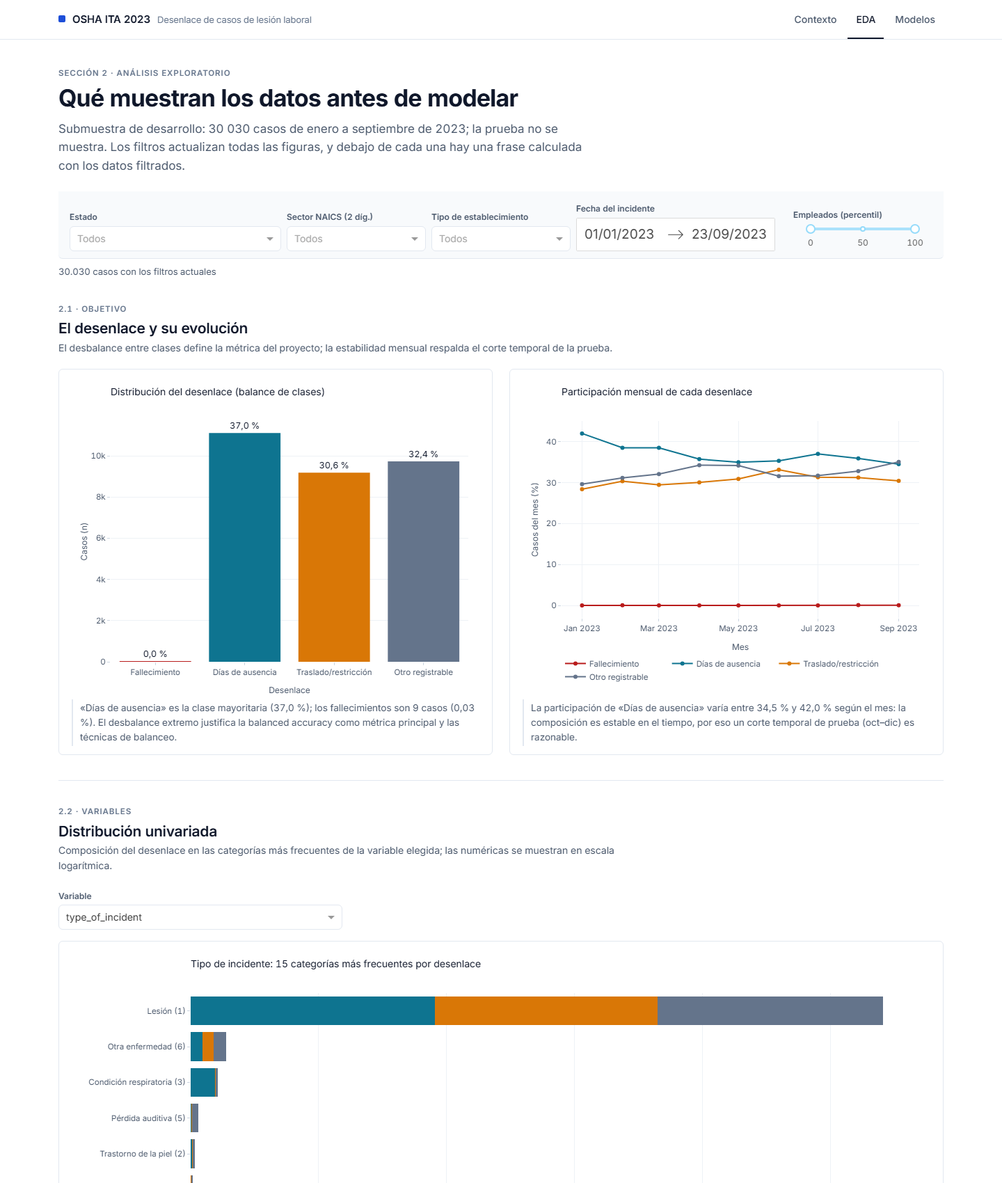
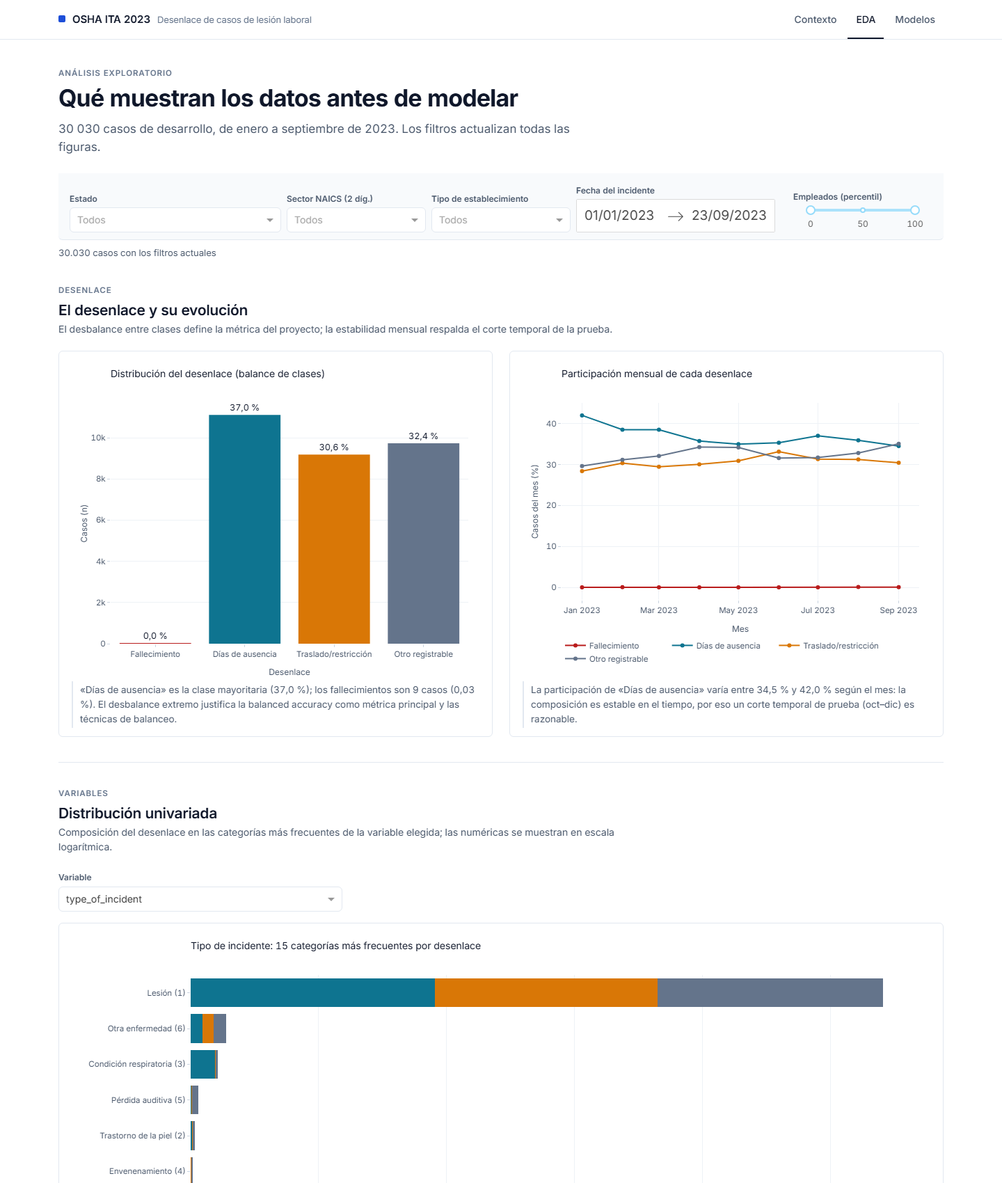
Dashboard: Modelos más corta y centrada en los hallazgos (sin R1-R3, detalle en secciones plegables) y textos menos formales

diff --git a/dashboard_final/assets/style.css b/dashboard_final/assets/style.css
@@ -159,3 +159,11 @@ pre.pseudo { font-family: var(--mono); font-size: 12px; background: var(--bg-sof
 html, body { max-width: 100%; overflow-x: hidden; }
 .dash-table-container, .js-plotly-plot, .panel { max-width: 100%; min-width: 0; }
 .row > * { min-width: 0; }
+
+/* ---------- detalle plegable ---------- */
+details.more { border: 1px solid var(--line); border-radius: var(--radius); padding: 10px 14px; }
+details.more > summary { cursor: pointer; font-size: 14px; font-weight: 500; color: var(--ink-2); list-style: none; }
+details.more > summary::-webkit-details-marker { display: none; }
+details.more > summary::before { content: '+'; display: inline-block; width: 18px; color: var(--ink-3); font-family: var(--mono); }
+details.more[open] > summary::before { content: '−'; }
+details.more > summary:hover { color: var(--ink); }

diff --git a/dashboard_final/pages/modelos.py b/dashboard_final/pages/modelos.py
@@ -209,70 +209,62 @@ def stat(value, label, accent=False):
                     className='stat accent' if accent else 'stat')
 
 
-def verdict_strip():
-    req = [('R1 · Novedad', 'Sí', 'ok', 'Revisión en 3 bases con 8 cadenas; no se halló SECR aplicado a este problema '
-            '(cap. 16.6–16.9).'),
-           ('R2 · Implementación propia', 'Sí', 'ok', 'Clase compatible con scikit-learn, Frank-Wolfe en numpy, '
-            '6 proposiciones y 8 pruebas unitarias (cap. 19).'),
-           ('R3 · Superioridad', 'No', 'bad', 'Mayor BA media, pero ninguna prueba pareada contra KNN rechaza la '
-            'igualdad tras Holm (cap. 20).')]
-    return html.Div([html.Div([html.Div(k, className='k'), html.Div(html.Span(s, className=f'pill {c}'), className='s'),
-                               html.Div(d, className='d')], className='req') for k, s, c, d in req], className='verdict')
+def more(summary, *children):
+    """Detalle plegable: lo esencial queda a la vista y el resto a un clic."""
+    return html.Details([html.Summary(summary), html.Div(children, className='pt-3')], className='more mt-3')
 
 
 subnav = html.Nav([html.A(t, href=f'#{i}') for i, t in [
-    ('benchmarks', 'Benchmarks'), ('prediccion', 'Predicción'), ('diagnostico', 'Diagnóstico'), ('original', 'Modelo original'),
-    ('candidatos', 'Candidatos'), ('comparacion', 'Comparación pareada'), ('ablacion', 'Ablación'), ('veredicto', 'Veredicto')]],
+    ('benchmarks', 'Benchmarks'), ('prediccion', 'Predicción'), ('diagnostico', 'Diagnóstico'),
+    ('original', 'Modelo original'), ('comparacion', 'Comparación'), ('ablacion', 'Ablación')]],
     className='subnav', **{'aria-label': 'Secciones de la página'})
 
 # --------------------------------------------------------------------------------------------- layout
 layout = html.Div([
     html.Div([
-        html.Div('Sección 3 · Modelos', className='eyebrow'),
-        html.H1('Siete benchmarks del curso y un modelo original', className='page-title'),
-        html.P('El original (ensamble multivista + SECR) obtiene la mayor balanced accuracy media cuando se compara con los '
-               '7 benchmarks con las mismas variables y los mismos pliegues, pero su ventaja sobre KNN no es '
-               'estadísticamente significativa.', className='page-lead'),
-        html.Div([stat(num(BA.get('Original (SECR)', np.nan)), 'BA media del original (15 pliegues pareados)', accent=True),
+        html.Div('Modelos', className='eyebrow'),
+        html.H1('El modelo original gana en media, pero no por un margen claro', className='page-title'),
+        html.P('Con las mismas variables y los mismos 15 pliegues, el ensamble multivista con SECR obtiene la mayor balanced '
+               'accuracy de los 8 modelos. Su ventaja sobre KNN, el mejor benchmark, es pequeña frente a la variación entre '
+               'pliegues y ninguna prueba pareada la confirma.', className='page-lead'),
+        html.Div([stat(num(BA.get('Original (SECR)', np.nan)), 'BA media del original (15 pliegues)', accent=True),
                   stat(num(BA.get('KNN', np.nan)), 'BA media de KNN, el mejor benchmark'),
-                  stat(num(DELTA, sign=True), 'diferencia; IC BCa 95 % [−0,032; 0,056] incluye el 0'),
-                  stat(FRIEDMAN_P.replace('.', ','), 'p de Friedman (global): los 8 modelos no son iguales')],
+                  stat(num(DELTA, sign=True), 'diferencia; IC BCa 95 % [−0,032; 0,056]'),
+                  stat(num(ABL['SECR sin corrección por prior (α = 0)']['ba_mean']) if ABL else '—',
+                       'BA del original sin la corrección por prior: el componente que más aporta')],
                  className='stats'),
-        html.Div(verdict_strip(), className='mt-3'),
     ], className='page-head'),
     subnav,
 
-    section('benchmarks', '3.1 · Benchmarks', 'Tabla de líderes del Entregable 2',
-            'Mejores combinaciones del Entregable 2 (9 variables): una fila por modelo, la combinación de balanceo y '
-            'optimizador con mayor BA media en los 5 pliegues externos de la validación anidada. La comparación con el '
-            'modelo original usa estos mismos 7 modelos reentrenados con las variables ampliadas (sección 3.6).',
+    section('benchmarks', 'Benchmarks', 'Mejores combinaciones del Entregable 2',
+            'Una fila por modelo: la combinación de balanceo y optimizador con mayor BA media en los 5 pliegues externos, '
+            'con las 9 variables del lugar de trabajo. Estos mismos 7 modelos se reentrenan con las variables ampliadas '
+            'para compararlos con el original.',
             dbc.Switch(id='show-all', label='Mostrar las 112 combinaciones', value=False, className='mb-2'),
             leaderboard),
 
-    section('prediccion', '3.2 · Predicción', 'Predicción en vivo con explicación',
-            'Describa un caso y elija el modelo. Los benchmarks usan las 9 variables del lugar de trabajo; el original usa '
-            'además los códigos de la lesión y el empleador. NAICS de 3 dígitos, ocupación SOC menor y horas desde el '
-            'inicio de la jornada se derivan automáticamente. El modelo elegido también controla el diagnóstico (3.3).',
+    section('prediccion', 'Predicción', 'Un caso, paso a paso',
+            'Los benchmarks usan las 9 variables del lugar de trabajo; el original añade la lesión y el empleador. El '
+            'modelo elegido aquí es también el del diagnóstico.',
             dbc.Row([dbc.Col([dbc.Label('Modelo', html_for='model-sel'),
                               dcc.Dropdown([{'label': model_label(m), 'value': m} for m in MODELS],
                                            'original' if 'original' in MODELS else MODELS[0], id='model-sel',
                                            clearable=False)], xs=12, md=5),
                      dbc.Col(html.Div(id='model-info', className='note pt-md-4'), xs=12, md=7)], className='mb-3'),
             html.Div([form,
-                      dbc.Button('Predecir y explicar', id='btn-pred', color='primary', className='mt-2')],
+                      dbc.Button('Predecir', id='btn-pred', color='primary', className='mt-2')],
                      className='panel panel-soft'),
             html.Div(id='pred-alert', className='mt-3'),
             dbc.Row([dbc.Col(html.Div(dcc.Loading(dcc.Graph(id='g-proba', config={'displaylogo': False},
-                                                            figure=plots.empty('Pulse «Predecir y explicar».')),
+                                                            figure=plots.empty('Pulse «Predecir».')),
                                                   type='dot', color='#94a3b8'), className='panel'), lg=5),
                      dbc.Col(html.Div(dcc.Loading(dcc.Graph(id='g-shap', config={'displaylogo': False},
-                                                            figure=plots.empty('Aquí aparecerá la explicación SHAP local.')),
+                                                            figure=plots.empty('Aquí aparecerá el aporte de cada variable.')),
                                                   type='dot', color='#94a3b8'), className='panel'), lg=7)],
                     className='grid-gap mt-1')),
 
-    section('diagnostico', '3.3 · Diagnóstico', 'Cómo se equivoca el modelo seleccionado',
-            'Calculado con las predicciones fuera de pliegue externo (30 030 casos); la prueba de octubre a diciembre no se '
-            'usa.',
+    section('diagnostico', 'Diagnóstico', 'Dónde acierta y dónde se equivoca',
+            'Predicciones fuera de pliegue externo de los 30 030 casos de desarrollo.',
             html.P(id='i-diag', className='finding mb-3'),
             dbc.Row([dbc.Col(html.Div(dcc.Graph(id='g-cm'), className='panel'), lg=6),
                      dbc.Col(html.Div(dcc.Graph(id='g-cal'), className='panel'), lg=6),
@@ -281,34 +273,31 @@ layout = html.Div([
                      dbc.Col(html.Div([dcc.Graph(id='g-shapglob'), html.P(id='i-shapglob', className='finding')],
                                       className='panel'), lg=12)], className='grid-gap')),
 
-    section('original', '3.4 · Modelo original', 'Ensamble multivista + SECR',
-            '16 modelos base, cada uno especializado en una vista de los datos (lugar de trabajo, lesión OIICS, códigos '
-            'finos con codificación por objetivo, empleador), se combinan con SECR: selección de ensambles condicionada '
-            'por región con contracción. Los pesos de cada región minimizan la log-loss fuera de pliegue sobre el símplex '
-            'con Frank-Wolfe y se contraen hacia los pesos globales con λ pseudo-observaciones. La compuerta, λ, los pasos, '
-            'el tamaño mínimo de región y el α de la decisión se eligen con TPE dentro de cada pliegue externo, con el '
-            'mismo presupuesto (16) que los benchmarks.',
-            dbc.Row([dbc.Col([html.Div('Pseudocódigo', className='block-title mb-2'), html.Pre(PSEUDO, className='pseudo')],
-                             lg=6),
-                     dbc.Col([html.Div('Diferencias frente a la literatura', className='block-title mb-2'),
-                              simple_table(['Método afín', 'Qué cambia SECR'],
-                                           [html.Tr([html.Td(a), html.Td(b)]) for a, b in DIFFS])], lg=6)],
-                    className='grid-gap'),
-            html.Div(dcc.Graph(id='g-conv', config={'displaylogo': False}), className='panel mt-3'),
-            html.P('La log-loss no sube nunca (proposición 2) y la brecha de Frank-Wolfe, que acota la distancia al óptimo '
-                   '(proposición 3), cae varios órdenes de magnitud.', className='finding')),
+    section('original', 'Modelo original', 'Ensamble multivista + SECR',
+            '16 modelos base, cada uno especializado en una vista del caso (lugar de trabajo, lesión, códigos finos, '
+            'empleador), se combinan con pesos aprendidos por región del espacio de entrada y contraídos hacia unos pesos '
+            'globales cuando la región tiene pocos datos. Los pesos se optimizan con Frank-Wolfe, que garantiza que la '
+            'pérdida no sube y certifica qué tan cerca está del óptimo. La decisión final divide cada probabilidad por la '
+            'frecuencia de su clase.',
+            more('Algoritmo, diferencias con la literatura y convergencia',
+                 dbc.Row([dbc.Col([html.Div('Pseudocódigo', className='block-title mb-2'),
+                                   html.Pre(PSEUDO, className='pseudo')], lg=6),
+                          dbc.Col([html.Div('Diferencias con métodos afines', className='block-title mb-2'),
+                                   simple_table(['Método afín', 'Qué cambia SECR'],
+                                                [html.Tr([html.Td(a), html.Td(b)]) for a, b in DIFFS])], lg=6)],
+                         className='grid-gap'),
+                 html.Div(dcc.Graph(id='g-conv', config={'displaylogo': False}), className='panel mt-3'),
+                 html.P('La log-loss no sube nunca y la brecha de Frank-Wolfe, que acota la distancia al óptimo, cae varios '
+                        'órdenes de magnitud.', className='finding')),
+            more('Los 13 diseños probados antes de llegar a SECR',
+                 html.P('Elegir el mejor de varios intentos sobrestima su ventaja, así que se listan todos con los datos que '
+                        'se miraron para elegirlos. Las cifras de bloques distintos no son comparables entre sí.',
+                        className='note'),
+                 candidates_table())),
 
-    section('candidatos', '3.5 · Candidatos', 'Trece diseños probados antes del modelo final',
-            'La guía (§13) pide declarar todos los diseños probados y qué datos se miraron para elegir, porque elegir el '
-            'mejor de varios candidatos sobrestima su ventaja. Las cifras de bloques distintos no se comparan entre sí.',
-            candidates_table(),
-            html.P('El diseño de SECR (regla, hiperparámetros y rangos) se fijó antes de correr el experimento pareado, y '
-                   'sus hiperparámetros los eligió TPE con predicciones internas de cada pliegue externo (cap. 19.9).',
-                   className='finding mt-3')),
-
-    section('comparacion', '3.6 · Comparación pareada', 'Mismas variables, mismas particiones, 3 × 5 pliegues',
-            'Los 7 benchmarks se reentrenan con las mismas columnas que el original y se evalúan en los mismos 15 pliegues '
-            'externos, con el mismo presupuesto de búsqueda.',
+    section('comparacion', 'Comparación pareada', 'Mismas variables, mismos 15 pliegues',
+            'Los 7 benchmarks se reentrenan con las mismas columnas que el original y se evalúan en los mismos 3 × 5 '
+            'pliegues externos, con el mismo presupuesto de búsqueda.',
             paired_table(),
             dbc.Row([dbc.Col(html.Div([dcc.Graph(id='g-cd', figure=(plots.cd_diagram(
                 RES['cd']['names'], np.array(RES['cd']['ranks']), RES['cd']['cd'], highlight='Original (SECR)')
@@ -318,47 +307,28 @@ layout = html.Div([
                                                  else plots.empty()),
                                        html.P((f'La ventaja media sobre KNN es {num(BYREP[0], sign=True)} en la repetición 0 '
                                                f'(pliegues ya vistos al elegir el nivel 0) y {num(BYREP[1], sign=True)} y '
-                                               f'{num(BYREP[2], sign=True)} en las repeticiones 1 y 2. En 15 pliegues la '
-                                               'variación entre pliegues (d.e. ≈ 0,08) es unas cuatro veces la ventaja media.')
+                                               f'{num(BYREP[2], sign=True)} en las otras dos. La variación entre pliegues '
+                                               '(d.e. ≈ 0,08) es unas cuatro veces la ventaja media.')
                                               if BYREP else '', className='finding')], className='panel'), lg=7)],
                     className='grid-gap mt-3'),
-            html.Div('Pruebas de hipótesis (familia de 4, ajuste de Holm)', className='block-title mt-4 mb-2'),
-            tests_table()),
+            more('Pruebas de hipótesis (Friedman, Nemenyi, Nadeau–Bengio, Wilcoxon y bayesiana)', tests_table())),
 
-    section('ablacion', '3.7 · Ablación y sensibilidad', 'Qué aporta cada componente',
-            'Mismos modelos base, mismas predicciones y mismos 15 pliegues; se retira un componente cada vez o la regla '
-            'de combinación se reemplaza por una regla estándar. La sensibilidad es descriptiva: no se usó para elegir '
-            'nada, porque eso sería ajustar con los pliegues del veredicto.',
-            dbc.Row([dbc.Col(html.Div([dcc.Graph(figure=plots.ablation_bar(RES['ablation']) if RES else plots.empty()),
-                                       html.P(('La corrección por prior (α) es lo que más aporta: sin ella la BA cae a '
-                                               f"{num(ABL['SECR sin corrección por prior (α = 0)']['ba_mean'])} (Holm p = "
-                                               f"{num(ABL['SECR sin corrección por prior (α = 0)']['p_holm'])}). Las regiones "
-                                               f"no aportan: sin ellas la BA es {num(ABL['SECR sin regiones (solo pesos globales)']['ba_mean'])}, "
-                                               'sin diferencia significativa. Las variantes marcadas con * difieren de SECR '
-                                               'de forma significativa tras Holm.')
-                                              if 'SECR sin corrección por prior (α = 0)' in ABL else '',
-                                              className='finding')], className='panel'), lg=12)],
-                    className='grid-gap'),
-            html.Div('Sensibilidad de SECR (descriptiva; media ± d.e. en 15 pliegues)', className='block-title mt-4 mb-2'),
-            dbc.Row([dbc.Col(html.Div(dcc.Graph(figure=plots.sensitivity(PF['sensitivity'], prm) if PF else plots.empty()),
-                                      className='panel'), md=6, xl=3)
-                     for prm in ['alpha', 'lam', 'gate', 'frac_datos']], className='grid-gap'),
-            html.P('α decide la BA (≈ 0,46 con α ≤ 0,5 y ≈ 0,59 con α = 1). Con contracción fuerte (λ ≥ 1000) o sin compuerta '
-                   'la BA sube a ≈ 0,62, más que el 0,591 del modelo con TPE: la búsqueda interna eligió compuertas que no '
-                   'generalizan. No se cambió el modelo por esto, porque sería elegir con los pliegues del veredicto. Con el '
-                   '10 % de los datos internos el método se vuelve inestable.', className='finding mt-3')),
-
-    section('veredicto', '3.8 · Veredicto', 'R1 sí, R2 sí, R3 no: tope de calificación 4,0',
-            None,
-            verdict_strip(),
-            html.Div([html.B('Resultado del experimento. '), RES['verdict'] if RES else 'Veredicto pendiente.'],
-                     className='callout warn mt-3', id='verdict'),
-            html.Div([html.B('Por qué «R3 = no» es conservador. '),
-                      'La BA de 0,591 es optimista por selección: el original salió de 13 diseños, y su nivel 0 se eligió '
-                      'mirando los 5 pliegues de la repetición 0. Ese sesgo favorece declarar «superior»; corregirlo solo '
-                      'podría reducir la ventaja. No se repitió la corrida con más repeticiones, otra semilla u otra '
-                      'métrica después de ver los resultados, porque eso sería buscar la significancia (guía §13).'],
-                     className='callout mt-3')),
+    section('ablacion', 'Ablación', 'Qué aporta cada componente',
+            'Mismos modelos base y mismos pliegues; se quita un componente cada vez o se cambia la regla de combinación.',
+            html.Div([dcc.Graph(figure=plots.ablation_bar(RES['ablation']) if RES else plots.empty()),
+                      html.P(('La corrección por prior es lo que más aporta: sin ella la BA cae a '
+                              f"{num(ABL['SECR sin corrección por prior (α = 0)']['ba_mean'])} (Holm p = "
+                              f"{num(ABL['SECR sin corrección por prior (α = 0)']['p_holm'])}). Las regiones no aportan: "
+                              f"sin ellas la BA es {num(ABL['SECR sin regiones (solo pesos globales)']['ba_mean'])}, sin "
+                              'diferencia significativa. Las variantes con * difieren de SECR tras Holm.')
+                             if ABL else '', className='finding')], className='panel'),
+            more('Sensibilidad a los hiperparámetros',
+                 dbc.Row([dbc.Col(html.Div(dcc.Graph(figure=plots.sensitivity(PF['sensitivity'], prm) if PF
+                                                     else plots.empty()), className='panel'), md=6, xl=3)
+                          for prm in ['alpha', 'lam', 'gate', 'frac_datos']], className='grid-gap'),
+                 html.P('α decide la BA (≈ 0,46 con α ≤ 0,5 y ≈ 0,59 con α = 1). Con contracción fuerte o sin compuerta la BA '
+                        'sube a ≈ 0,62: la búsqueda interna eligió compuertas que no generalizan. No se cambió el modelo por '
+                        'esto, porque sería elegir con los pliegues de la evaluación.', className='finding mt-3'))),
 ])
 
 

diff --git a/dashboard_final/pages/eda.py b/dashboard_final/pages/eda.py
@@ -52,31 +52,30 @@ filters = html.Div(dbc.Row([
 
 layout = html.Div([
     html.Div([
-        html.Div('Sección 2 · Análisis exploratorio', className='eyebrow'),
+        html.Div('Análisis exploratorio', className='eyebrow'),
         html.H1('Qué muestran los datos antes de modelar', className='page-title'),
-        html.P('Submuestra de desarrollo: 30 030 casos de enero a septiembre de 2023; la prueba no se muestra. Los filtros '
-               'actualizan todas las figuras, y debajo de cada una hay una frase calculada con los datos filtrados.',
+        html.P('30 030 casos de desarrollo, de enero a septiembre de 2023. Los filtros actualizan todas las figuras.',
                className='page-lead'),
     ], className='page-head', style={'borderBottom': 'none', 'paddingBottom': '16px'}),
     filters,
     html.Div(id='eda-n', className='count-badge mt-2'),
-    group('2.1 · Objetivo', 'El desenlace y su evolución',
+    group('Desenlace', 'El desenlace y su evolución',
           'El desbalance entre clases define la métrica del proyecto; la estabilidad mensual respalda el corte temporal '
           'de la prueba.',
           dbc.Row([figure('g-target', 'i-target'), figure('g-month', 'i-month')], className='grid-gap')),
-    group('2.2 · Variables', 'Distribución univariada', 'Composición del desenlace en las categorías más frecuentes de la '
+    group('Variables', 'Distribución univariada', 'Composición del desenlace en las categorías más frecuentes de la '
           'variable elegida; las numéricas se muestran en escala logarítmica.',
           dbc.Row(dbc.Col([dbc.Label('Variable', html_for='uni-var'),
                            dcc.Dropdown(CAT_VARS + NUM_VARS, 'type_of_incident', id='uni-var', clearable=False,
                                         optionHeight=30)], xs=12, md=4), className='mb-3'),
           html.Div([dcc.Loading(dcc.Graph(id='g-uni', config={'displaylogo': False}), type='dot', color='#94a3b8'),
                     insight('i-uni')], className='panel')),
-    group('2.3 · Asociaciones y calidad', 'Qué variables se relacionan con el desenlace y cuánto falta',
+    group('Asociaciones y calidad', 'Qué variables se relacionan con el desenlace y cuánto falta',
           'V de Cramér entre pares de categóricas (0 = independencia, 1 = asociación perfecta) y proporción de casos sin '
           'dato por variable.',
           dbc.Row([figure('g-corr', 'i-corr', 7, 520), figure('g-miss', 'i-miss', 5, 520)], className='grid-gap'),
           dbc.Row([figure('g-out', 'i-out', 12)], className='grid-gap mt-3')),
-    group('2.4 · Explorador', 'Explorador bivariado', 'Elija una variable para el eje x, la respuesta y el color.',
+    group('Explorador', 'Explorador bivariado', 'Elija una variable para el eje x, la respuesta y el color.',
           dbc.Row([dbc.Col([dbc.Label('Eje x (categórica)', html_for='bx'),
                             dcc.Dropdown(CAT_VARS, 'naics2', id='bx', clearable=False)], xs=12, md=4),
                    dbc.Col([dbc.Label('Eje y / respuesta', html_for='by'),

diff --git a/dashboard_final/pages/contexto.py b/dashboard_final/pages/contexto.py
@@ -65,12 +65,12 @@ if orig and knn:
         f'El modelo original (SECR) tiene la mayor balanced accuracy media en la comparación pareada '
         f'({orig["BA (media ± d.e.)"].split(" ")[0].replace(".", ",")} frente a '
         f'{knn["BA (media ± d.e.)"].split(" ")[0].replace(".", ",")} de KNN, 15 pliegues), pero la ventaja '
-        'no es estadísticamente significativa: R1 sí, R2 sí, R3 no. ',
+        'no es estadísticamente significativa. ',
         dcc.Link('Ver la evaluación →', href='/modelos#original')], className='callout mt-4')
 
 layout = html.Div([
     html.Div([
-        html.Div('Proyecto final · Machine Learning', className='eyebrow'),
+        html.Div('Contexto', className='eyebrow'),
         html.H1('¿Cómo termina un caso de lesión laboral?', className='page-title'),
         html.P(['Con los registros que los empleadores de EE. UU. reportan a OSHA (formularios 300/301, ',
                 html.Em('Injury Tracking Application'), ' 2023) clasificamos el desenlace de cada caso en cuatro clases: '
@@ -84,7 +84,7 @@ layout = html.Div([
         headline,
     ], className='page-head'),
 
-    section('1 · Problema', 'Por qué importa',
+    section('Problema', 'Por qué importa',
             None,
             dbc.Row([
                 dbc.Col([
@@ -113,7 +113,7 @@ layout = html.Div([
                             className='mb-0 ps-3')], className='panel panel-soft'), lg=6),
             ])),
 
-    section('2 · Datos', 'Fuente, partición y variables',
+    section('Datos', 'Fuente, partición y variables',
             ['Fuente: ', html.A('OSHA, ITA Case Detail Data 2023 (CSV con códigos OIICS)',
                                 href='https://www.osha.gov/Establishment-Specific-Injury-and-Illness-Data', target='_blank'),
              '. 890 372 casos de 2023. Partición del entregable 1: el 60 % de los establecimientos se reserva para la prueba '
@@ -121,12 +121,12 @@ layout = html.Div([
              'entrenan con una submuestra de 30 030 casos tomada por establecimientos completos.'],
             dict_table()),
 
-    section('3 · Método', 'Del dato crudo al veredicto', None,
+    section('Método', 'Del dato crudo al veredicto', None,
             html.Div([html.Div([html.Div(f'0{i + 1}', className='n'), html.Div(t, className='t'),
                                 html.Div(s, className='s')], className='st') for i, (t, s) in enumerate(STEPS)],
                      className='steps')),
 
-    section('4 · Alcance', 'Limitaciones, ética y autoría', None, dbc.Row([
+    section('Alcance', 'Limitaciones, ética y autoría', None, dbc.Row([
         dbc.Col(html.Ul([
             html.Li('Los datos los reportan los empleadores: hay subregistro y diferencias entre sectores y estados.'),
             html.Li('Los códigos OIICS se asignan a partir del relato del caso. Existen cuando el caso se clasifica, pero el '

diff --git a/dashboard_final/src/plots.py b/dashboard_final/src/plots.py
@@ -240,7 +240,7 @@ def cd_diagram(names, ranks, cd, highlight=None):
     fig.add_shape(type='rect', x0=best, x1=best + cd, y0=-k - 0.6, y1=-0.4, fillcolor='rgba(29,78,216,0.08)', line_width=0)
     fig.add_annotation(x=best + cd / 2, y=-0.2, text=f'CD de Nemenyi = {cd:.2f}'.replace('.', ','), showarrow=False,
                        font=dict(color=ACCENT))
-    fig.update_layout(title='Diagrama de diferencia crítica (rango 1 = mejor; la franja marca la CD desde el mejor)',
+    fig.update_layout(title='Diferencia crítica de Nemenyi (rango 1 = mejor)',
                       xaxis=dict(title='Rango medio en los pliegues (menor es mejor)', range=[0.5, k + 2.5]),
                       yaxis=dict(visible=False), height=60 + 45 * k)
     return fig

diff --git a/jbook/21_dashboard.md b/jbook/21_dashboard.md
@@ -53,7 +53,7 @@ dashboard_final/
   tipográfica, superficies planas con bordes finos y sin sombras, y una paleta limitada. Los cuatro colores semánticos se
   reservan para las clases del desenlace («Otro registrable», la clase residual, en gris) y un único acento azul para el
   modelo original. Cada página abre con su conclusión y pocas cifras clave; la página Modelos tiene una subnavegación fija
-  por secciones. Rejilla responsiva (`dbc.Row`/`dbc.Col` con puntos de corte `xs`, `md` y `lg`) y una sola plantilla
+  por secciones y deja el detalle en secciones plegables. Rejilla responsiva (`dbc.Row`/`dbc.Col` con puntos de corte `xs`, `md` y `lg`) y una sola plantilla
   Plotly. Cada figura tiene título, ejes con unidades e información al pasar el cursor, y debajo una frase calculada con
   los datos. Ninguna información depende solo del color: las barras de SHAP llevan signo y valor, y la matriz de
   confusión lleva conteos.
@@ -64,7 +64,7 @@ dashboard_final/
 |---|---|---|
 | Contexto | Problema y relevancia con cifra citada (BLS, 2,6 millones de casos y 946 500 con días de ausencia en 2023); pregunta y objetivos; fuente, periodo, n, variables, diccionario y tarea; diagrama del pipeline; limitaciones, ética, autores, versión y fecha | `pages/contexto.py` |
 | EDA | Filtros globales (estado, sector, tipo de establecimiento, rango de fechas `DatePickerRange`, `RangeSlider` de tamaño) que actualizan todas las figuras; distribución y balance del objetivo; distribución univariada; asociación (V de Cramér); faltantes; atípicos; tendencia mensual; explorador bivariado con selectores de x, y y color; una frase de interpretación calculada por figura | `pages/eda.py` |
-| Modelos | `DataTable` ordenable y filtrable con las mejores combinaciones (y las 112 a pedido), media ± d.e. e inferencia; formulario de predicción generado desde el esquema con selector de modelo, probabilidad y SHAP local; matriz de confusión, ROC, PR y calibración; SHAP global; diagrama de diferencia crítica con el original incluido; subsección del original con descripción, pseudocódigo, diferencias con la literatura, curva de convergencia, los 13 candidatos probados (19.9), la comparación pareada con la BA por pliegue y el sesgo de selección (20.6), la tabla de pruebas, la ablación y la sensibilidad (20.4 y 20.7) y el veredicto R1–R3. Estas tablas salen de `results/` con `scripts/build_dashboard_extras.py` | `pages/modelos.py` |
+| Modelos | `DataTable` ordenable y filtrable con las mejores combinaciones (y las 112 a pedido), media ± d.e. e inferencia; formulario de predicción generado desde el esquema con selector de modelo, probabilidad y SHAP local; matriz de confusión, ROC, PR y calibración; SHAP global; diagrama de diferencia crítica con el original incluido; subsección del original con descripción, pseudocódigo, diferencias con la literatura, curva de convergencia, los 13 candidatos probados (19.9), la comparación pareada con la BA por pliegue y el sesgo de selección (20.6), la tabla de pruebas, la ablación y la sensibilidad (20.4 y 20.7). El detalle (algoritmo, candidatos, pruebas y sensibilidad) va en secciones plegables. Estas tablas salen de `results/` con `scripts/build_dashboard_extras.py` | `pages/modelos.py` |
 
 ```{figure} figures/e3_dash_contexto.png
 :name: fig-dash-contexto
